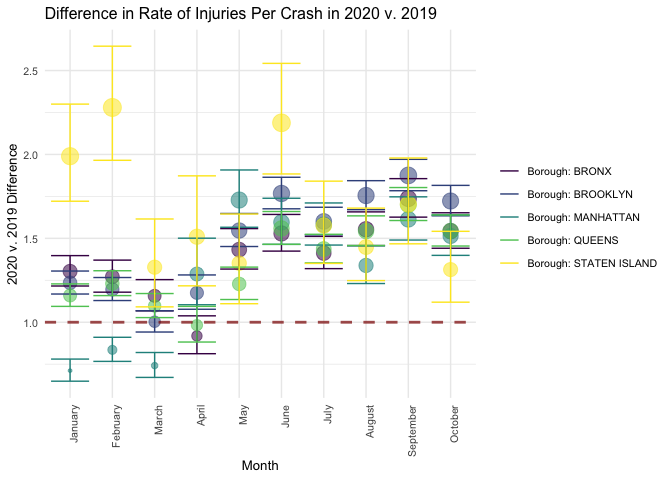
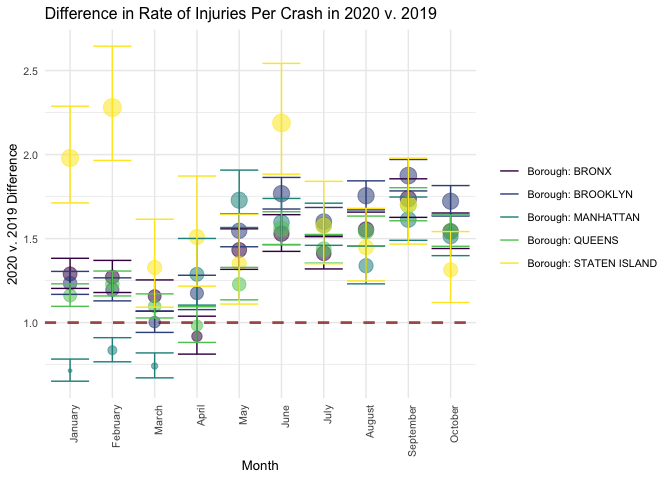
updated map

diff --git a/20201113_import_tidy.md b/20201113_import_tidy.md
@@ -75,11 +75,11 @@ fit_injuries_month
     ##    month    term                                 estimate std.error  p.value
     ##    <ord>    <chr>                                   <dbl>     <dbl>    <dbl>
     ##  1 January  (Intercept)                            -1.41     0.0143 0.      
-    ##  2 January  2020 v. 2019, Borough: BRONX            0.265    0.0354 7.44e-14
-    ##  3 January  2020 v. 2019, Borough: BROOKLYN         0.211    0.0283 9.02e-14
-    ##  4 January  2020 v. 2019, Borough: MANHATTAN       -0.340    0.0472 5.37e-13
-    ##  5 January  2020 v. 2019, Borough: QUEENS           0.148    0.0294 4.97e- 7
-    ##  6 January  2020 v. 2019, Borough: STATEN ISLAND    0.688    0.0739 1.36e-20
+    ##  2 January  2020 v. 2019, Borough: BRONX            0.255    0.0354 6.36e-13
+    ##  3 January  2020 v. 2019, Borough: BROOKLYN         0.211    0.0282 8.32e-14
+    ##  4 January  2020 v. 2019, Borough: MANHATTAN       -0.337    0.0469 7.56e-13
+    ##  5 January  2020 v. 2019, Borough: QUEENS           0.150    0.0294 3.27e- 7
+    ##  6 January  2020 v. 2019, Borough: STATEN ISLAND    0.683    0.0739 2.59e-20
     ##  7 February (Intercept)                            -1.44     0.0149 0.      
     ##  8 February 2020 v. 2019, Borough: BRONX            0.240    0.0383 3.77e-10
     ##  9 February 2020 v. 2019, Borough: BROOKLYN         0.179    0.0292 9.46e-10
@@ -232,3 +232,19 @@ crash_factor %>%
 ```
 
 ![](20201113_import_tidy_files/figure-gfm/contributing_factor-1.png)<!-- -->
+
+# Map Visualizations
+
+``` r
+crash_map = 
+  crash_dat %>% 
+  drop_na(c(latitude, longitude)) %>% 
+  filter(latitude > 0) %>% 
+  mutate(
+    text_label = str_c("Crash Time: ", crash_time, "\nNumber Injured: ", number_of_persons_injured)) %>% 
+  plot_mapbox(x = ~longitude, y = ~latitude, color =~number_of_persons_injured, text =~text_label)%>% 
+  layout(
+    mapbox = list(
+      zoom = 9,
+      center = list(lat = 40.67, lon = -73.97)))
+```
